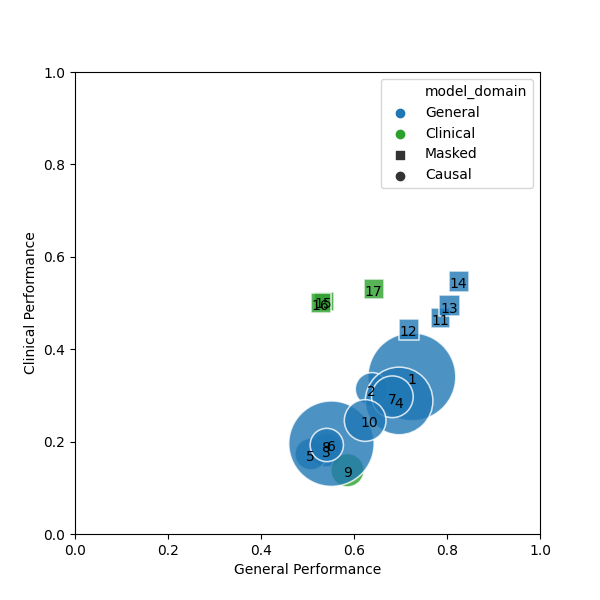
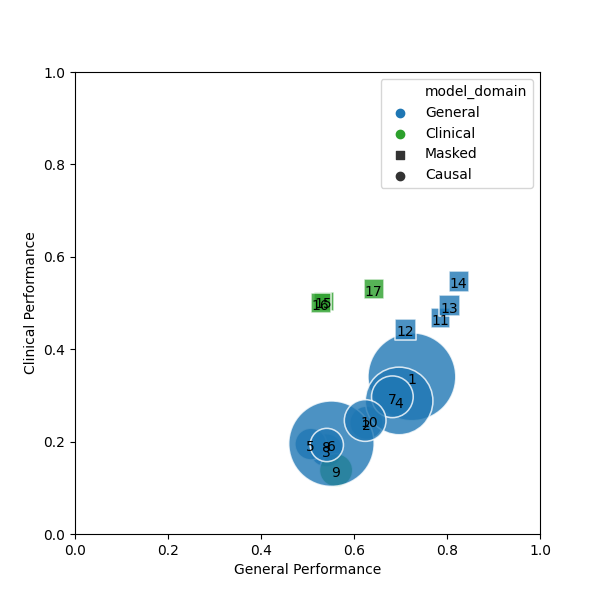
res

Changed region(s): [[0.48, 0.72, 0.6, 0.81], [0.57, 0.6, 0.63, 0.72], [0.66, 0.54, 0.72, 0.57]]

diff --git a/tabs_and_plots/results_table.tex b/tabs_and_plots/results_table.tex
@@ -10,11 +10,11 @@
  & 2 & Mistral-7B & 0.754 & 0.645 & 0.488 & 0.291 & 0.395 & 0.727 & 0.428 & 0.59 & 0.229 & 0.333 & 0.72 & 0.707 & 0.083 & 0.374 \\
  & 3 & BLOOM-7B1 & 0.524 & 0.557 & 0.279 & 0.113 & 0.151 & 0.136 & 0.206 & 0.32 & 0.197 & 0.12 & 0.47 & 0.419 & 0.051 & 0.117 \\
  & 4 & Falcon-40B & 0.686 & 0.708 & 0.28 & 0.279 & 0.305 & 0.662 & - & 0.378 & - & 0.283 & 0.72 & 0.543 & 0.072 & - \\
- & 5 & GPT-J-6B & 0.521 & 0.493 & 0.167 & 0.179 & - & 0.423 & - & 0.334 & 0.08 & 0.177 & 0.005 & 0.142 & 0.021 & - \\
+ & 5 & GPT-J-6B & 0.521 & 0.493 & 0.167 & 0.179 & 0.238 & 0.423 & 0.244 & 0.334 & 0.08 & 0.177 & 0.005 & 0.142 & 0.021 & - \\
  & 6 & OPT-66B & 0.608 & 0.495 & - & 0.157 & 0.234 & 0.624 & 0.406 & - & 0.206 & 0.283 & - & - & - & 0.204 \\
  & 7 & Vicuna-13B & 0.657 & 0.708 & 0.355 & 0.236 & 0.3 & 0.677 & 0.35 & 0.399 & - & 0.326 & 0.744 & 0.25 & 0.04 & 0.213 \\
  & 8 & Vicuna-7B & 0.594 & 0.489 & 0.259 & 0.147 & 0.172 & 0.591 & 0.277 & 0.439 & 0.152 & 0.296 & 0.659 & 0.569 & 0.042 & 0.151 \\
- & 9 & Medalpaca-7B & - & 0.586 & - & 0.138 & - & - & - & - & 0.161 & 0.224 & - & - & - & - \\
+ & 9 & Medalpaca-7B & 0.537 & 0.586 & - & 0.138 & - & - & - & - & 0.161 & 0.252 & - & - & - & - \\
  & 10 & Vigogne-13B & 0.593 & 0.655 & 0.252 & 0.176 & 0.309 & 0.515 & 0.25 & 0.464 & 0.099 & 0.142 & 0.58 & 0.561 & 0.01 & 0.198 \\
 \midrule
 \multirow{16}{*}{\rotatebox[origin=c]{90}{Masked}} & 11 & mBERT & 0.768 & 0.804 & 0.624 & 0.378 & 0.401 & 0.801 & 0.728 & 0.741 & 0.588 & 0.428 & 0.812 & 0.76 & 0.324 & 0.432 \\

diff --git a/tabs_and_plots/sampling.tex b/tabs_and_plots/sampling.tex
@@ -16,7 +16,7 @@ XLM-RoBERTa-large & 0.826 & 0.814 & 0.786 & 0.462 & 0.478 & 0.526 \\
  & \textit{p=1} & \textit{p=2} & \textit{p=3} & \textit{p=1} & \textit{p=2} & \textit{p=3} \\
 \midrule
 \midrule
-Mistral-7B & 0.615 & 0.648 & 0.637 & - & - & - \\
+Mistral-7B & 0.615 & 0.648 & 0.637 & 0.278 & 0.176 & 0.106 \\
 XLM-RoBERTa-large & 0.697 & 0.77 & 0.714 & 0.431 & 0.476 & 0.35 \\
 \midrule
 \midrule
@@ -25,7 +25,7 @@ XLM-RoBERTa-large & 0.697 & 0.77 & 0.714 & 0.431 & 0.476 & 0.35 \\
  & \textit{p=1} & \textit{p=2} & \textit{p=3} & \textit{p=1} & \textit{p=2} & \textit{p=3} \\
 \midrule
 \midrule
-Mistral-7B & 0.509 & 0.599 & - & - & - & - \\
-XLM-RoBERTa-large & 0.487 & 0.588 & - & 0.393 & 0.361 & 0.283 \\
+Mistral-7B & 0.509 & 0.599 & 0.52 & 0.152 & 0.252 & 0.116 \\
+XLM-RoBERTa-large & 0.487 & 0.588 & 0.637 & 0.393 & 0.361 & 0.283 \\
 \bottomrule
 \end{tabular}}
